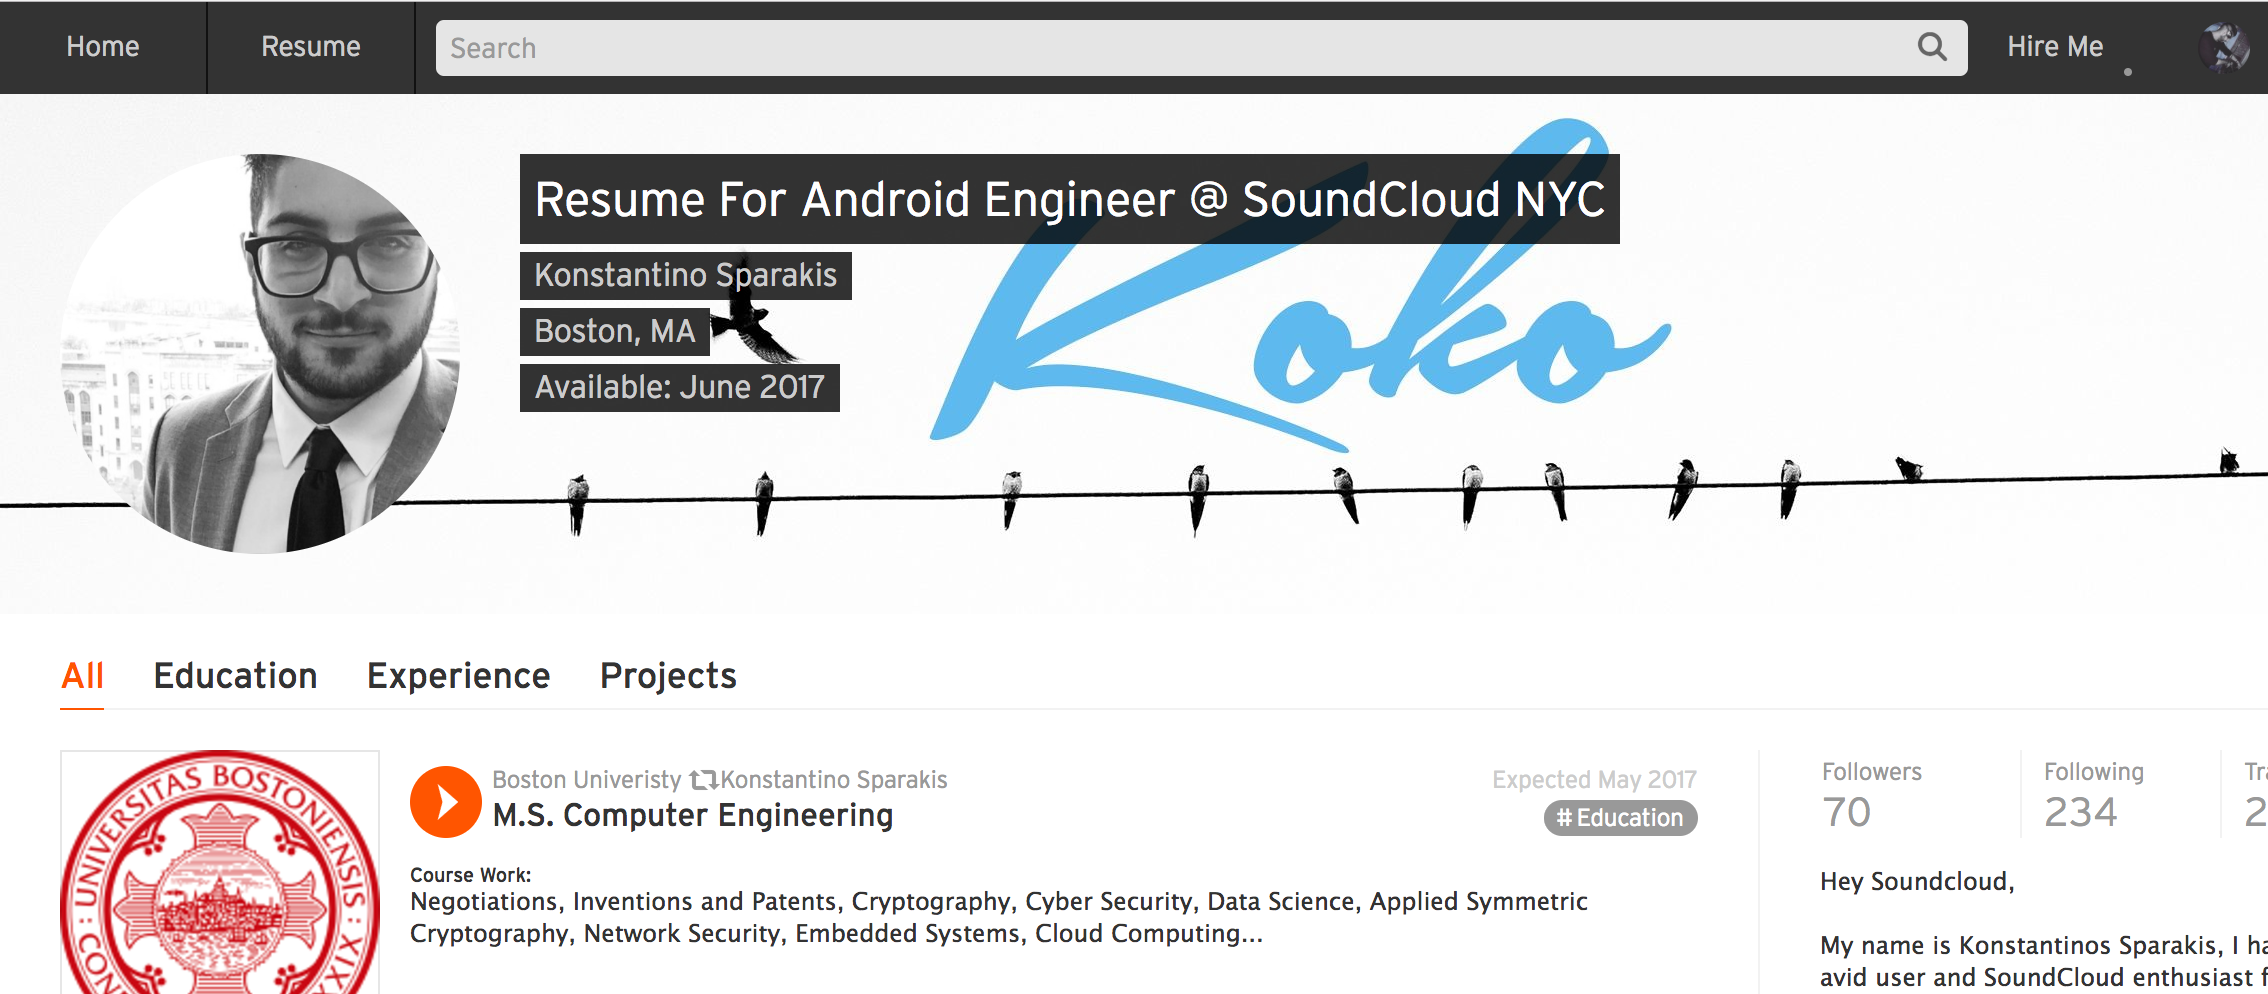
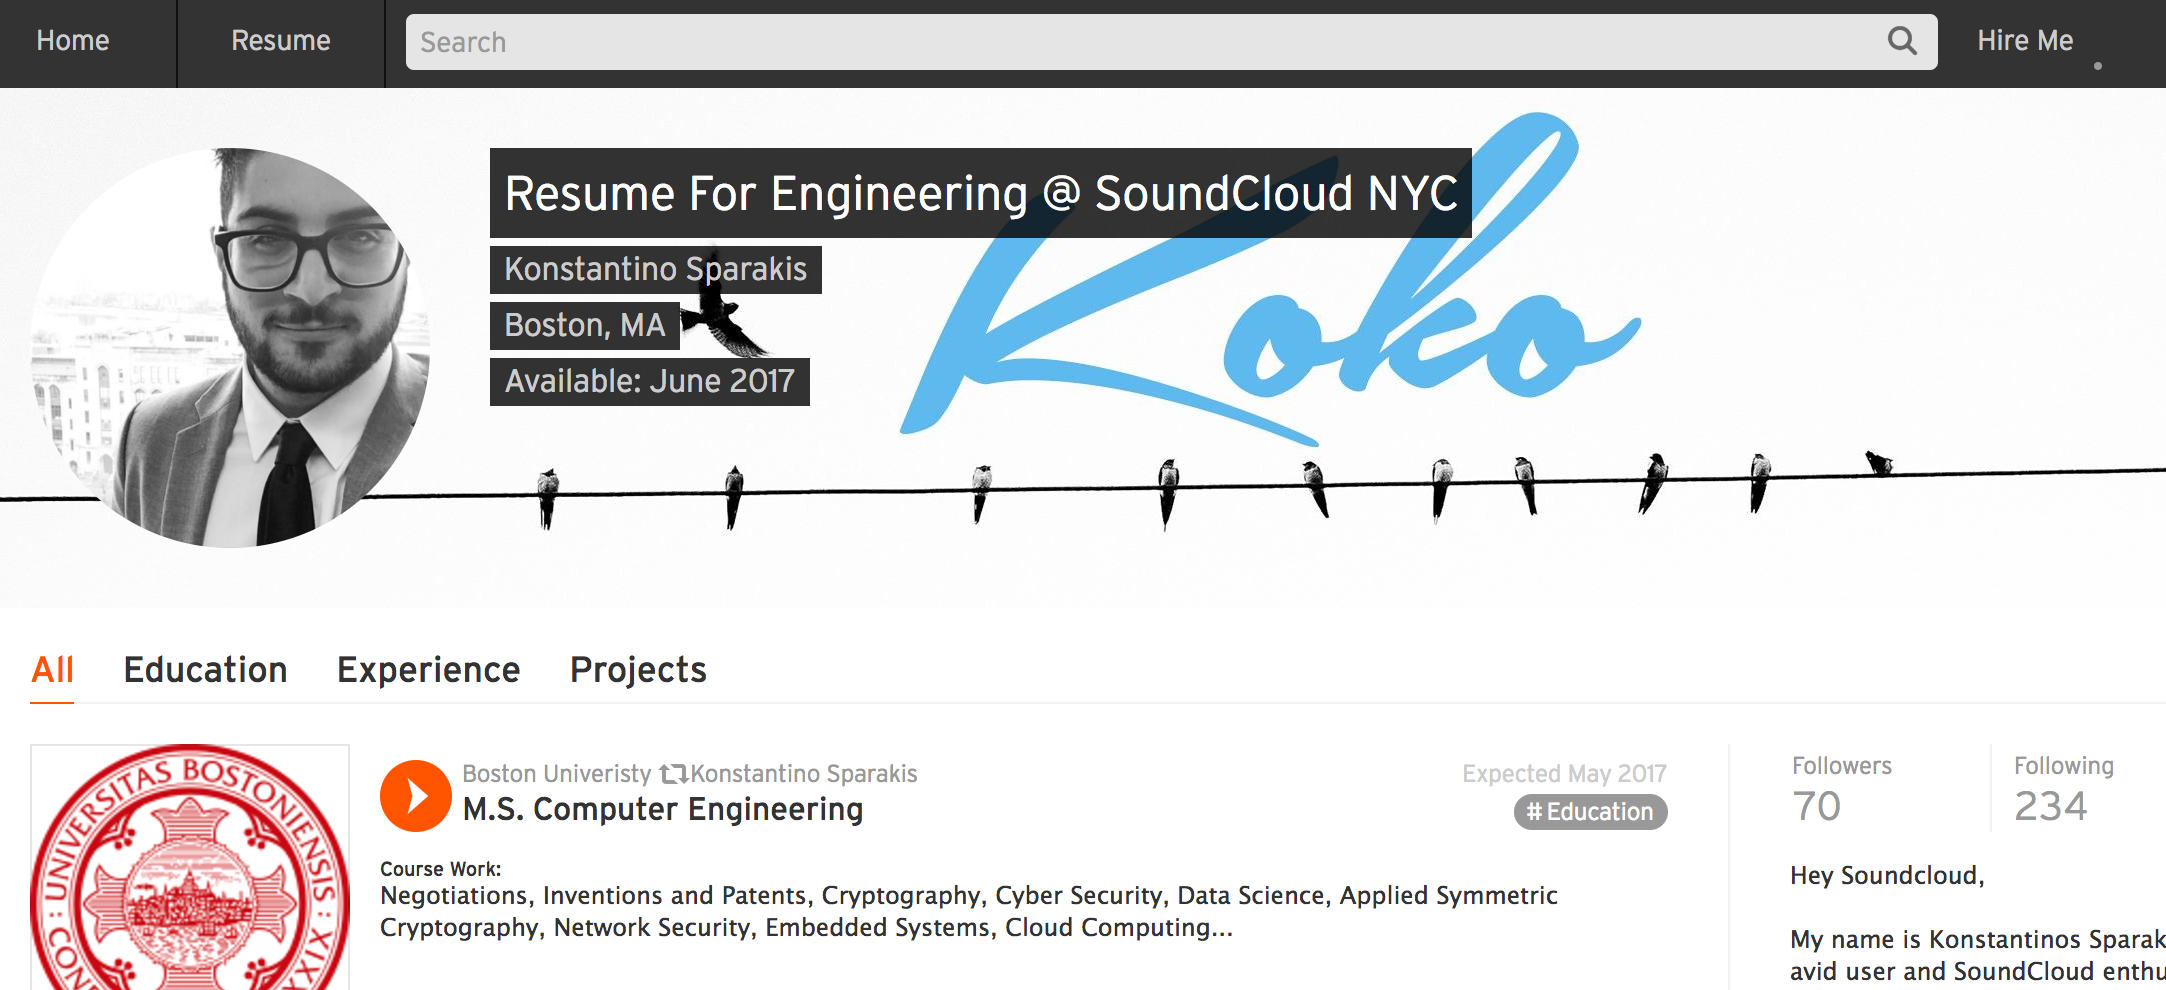
some edits

diff --git a/index.html b/index.html
@@ -5118,7 +5118,7 @@
                                 </div>
                                 <div class="profileHeaderInfo__content sc-media-content">
                                     <h3 class="profileHeaderInfo__userName g-type-shrinkwrap-block g-type-shrinkwrap-large-primary">
-    Resume For Android Engineer @ SoundCloud NYC
+    Resume For Engineering @ SoundCloud NYC
   </h3>
                                     <br>
                                     <h4 class="profileHeaderInfo__additional g-type-shrinkwrap-block g-type-shrinkwrap-large-secondary">Konstantino Sparakis</h4>
@@ -5805,7 +5805,7 @@
                                                 <div>
                                                     <p>Hey Soundcloud,
                                                         <br>
-                                                        <br> My name is Konstantinos Sparakis, I have been an avid user and SoundCloud enthusiast for years and now I am interested in joining SoundCloud as a mobile developer. They say getting in the door is the hardest part, so I took some time, borrowed some code (Don't get mad) and made this resume to catch your guys attentions! I applied online and I hope to hear back!
+                                                        <br> My name is Konstantinos Sparakis, I have been an avid user and SoundCloud enthusiast for years and now I am interested in joining SoundCloud as a software dev. They say getting in the door is the hardest part, so I took some time, borrowed some code (Don't get mad) and made this resume to catch your guys attentions! I applied online and I hope to hear back!
                                                         <br>
                                                         <br> Email: Ksparakis@gmail.com</p>
                                                 </div>
